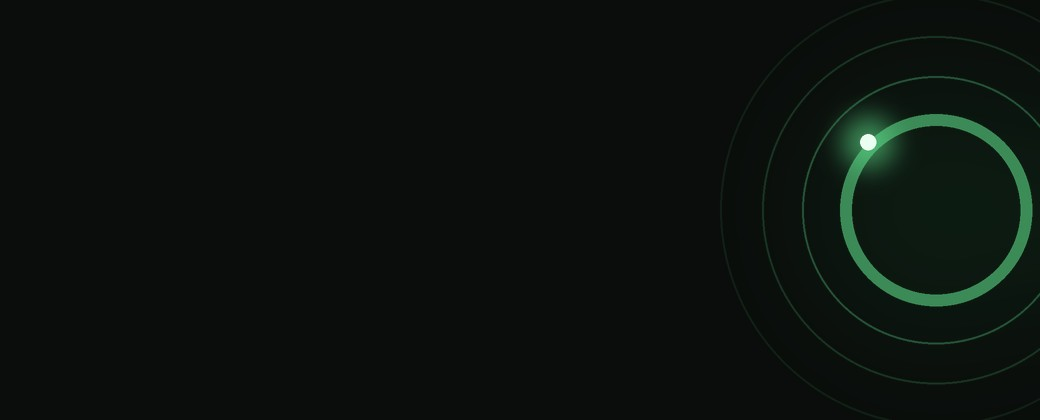
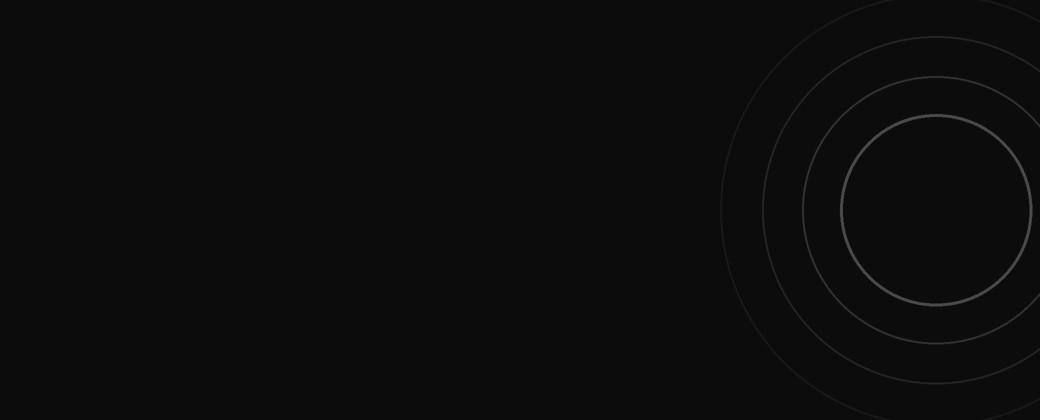
Mailing: tarjeta de diagnóstico en negro neutro

Changed region(s): [[0.8, 0.2476, 1.0, 0.7429], [0.8615, 0.8048, 0.9231, 0.8357], [0.9846, 0.7119, 1.0, 0.7429]]

diff --git a/email/confirmacion.html b/email/confirmacion.html
@@ -253,9 +253,9 @@
 
   <!-- ============ DIAGNÓSTICO ============ -->
   <tr><td class="px" bgcolor="#0F1512" style="background:#0F1512;padding:26px 40px 36px;border-radius:0 0 20px 20px;">
-    <table role="presentation" width="100%" cellpadding="0" cellspacing="0" border="0" bgcolor="#0A0D0B" background="https://jpmenenm.github.io/webinar-sapb1-v26/email/img/bg-diagnostico.jpg" style="border-radius:18px;border:1px solid #1E2A23;background-color:#0A0D0B;background-image:url('https://jpmenenm.github.io/webinar-sapb1-v26/email/img/bg-diagnostico.jpg');background-size:cover;background-position:center right;">
+    <table role="presentation" width="100%" cellpadding="0" cellspacing="0" border="0" bgcolor="#0C0C0D" background="https://jpmenenm.github.io/webinar-sapb1-v26/email/img/bg-diagnostico.jpg" style="border-radius:18px;border:1px solid #26282A;background-color:#0C0C0D;background-image:url('https://jpmenenm.github.io/webinar-sapb1-v26/email/img/bg-diagnostico.jpg');background-size:cover;background-position:center right;">
       <tr><td class="f center-m" style="padding:28px 26px 26px;font-family:'Poppins',Arial,sans-serif;">
-        <div style="font-size:11px;letter-spacing:2.4px;color:#5DDB88;font-weight:500;margin-bottom:6px;">DESPUÉS DEL WEBINAR</div>
+        <div style="font-size:11px;letter-spacing:2.4px;color:#9A9D99;font-weight:500;margin-bottom:6px;">DESPUÉS DEL WEBINAR</div>
         <div style="font-size:19px;line-height:26px;color:#EBE9E3;font-weight:600;margin-bottom:8px;max-width:300px;">¿Quieres llevarlo a tu operación?</div>
         <div style="font-size:13px;line-height:20px;color:#D5DBCF;margin-bottom:18px;max-width:300px;">Agenda un diagnóstico estratégico: una conversación con un Consultor Senior para entender tu operación y tu ecosistema de integraciones.</div>
         <table role="presentation" cellpadding="0" cellspacing="0" border="0" align="left" class="center-m"><tr>
